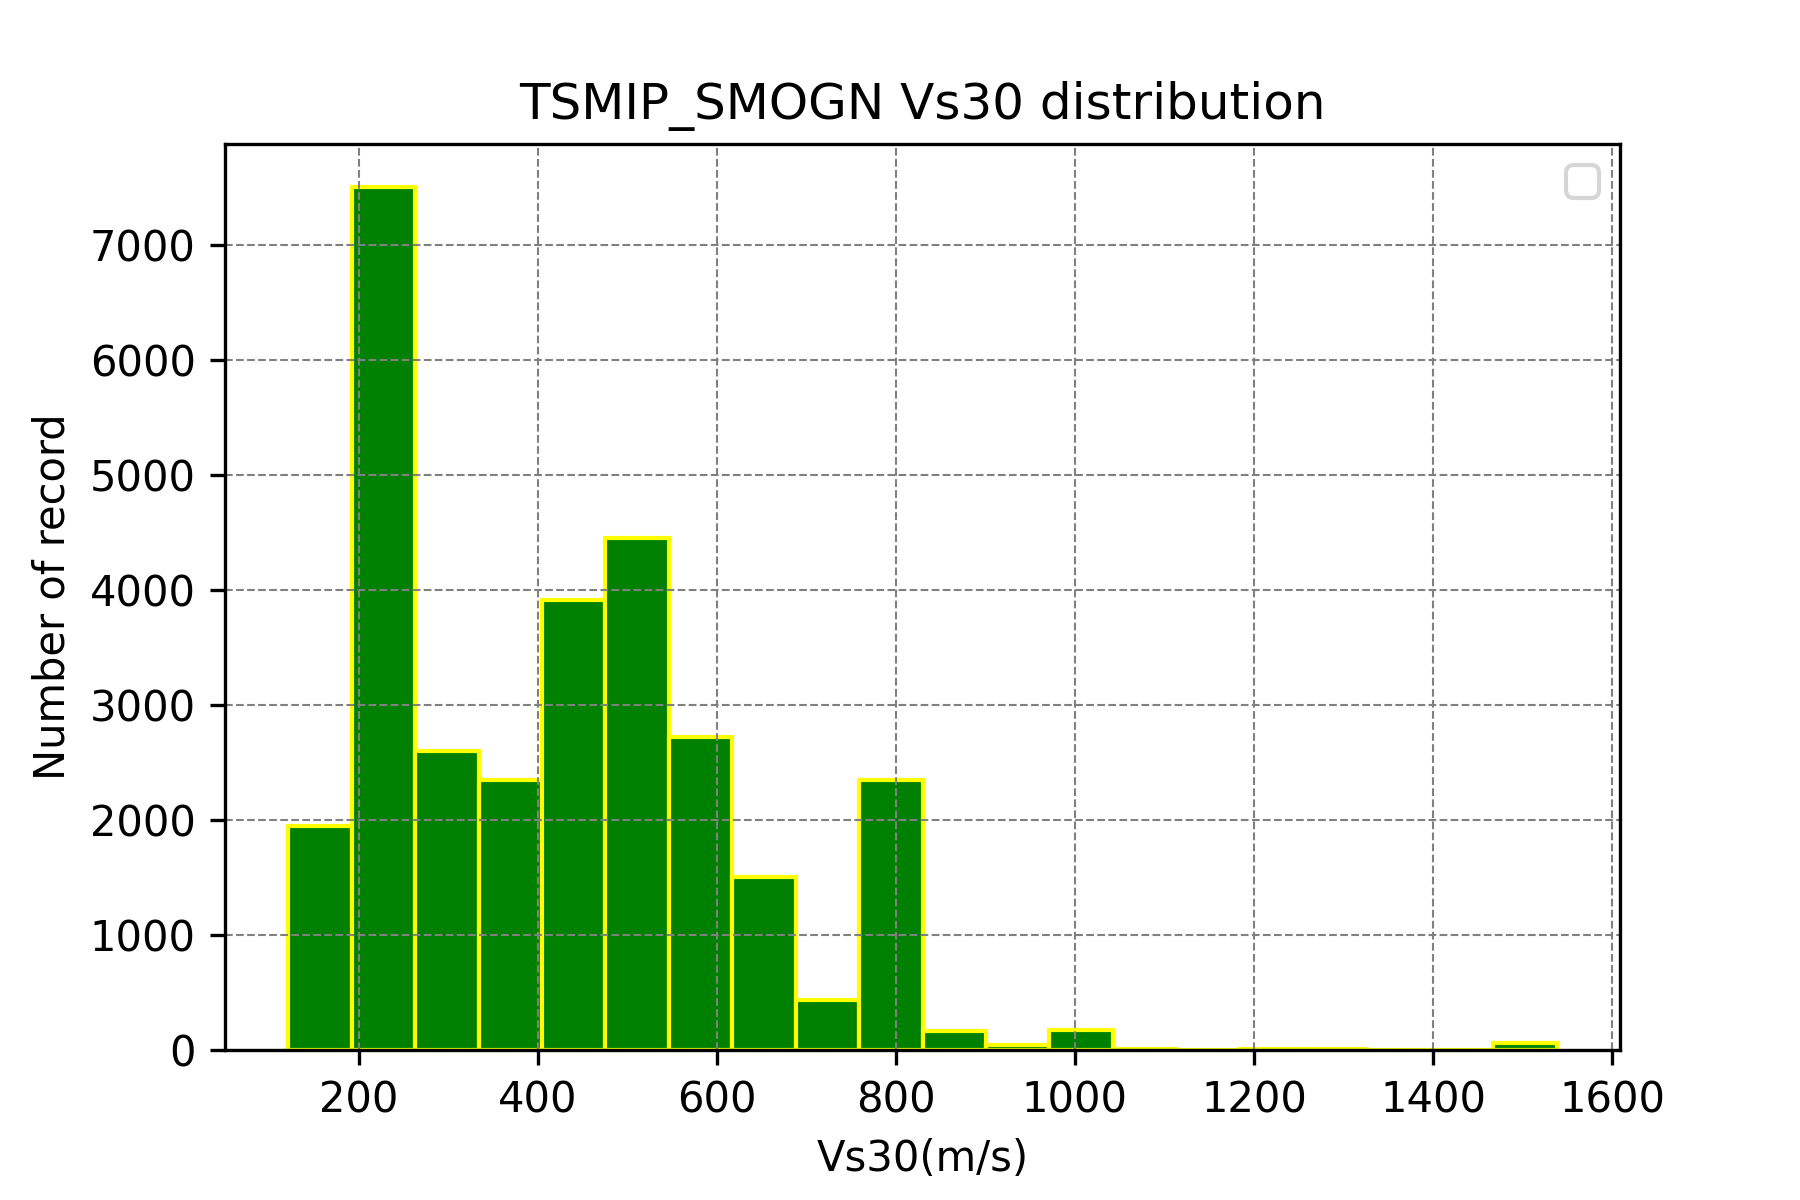
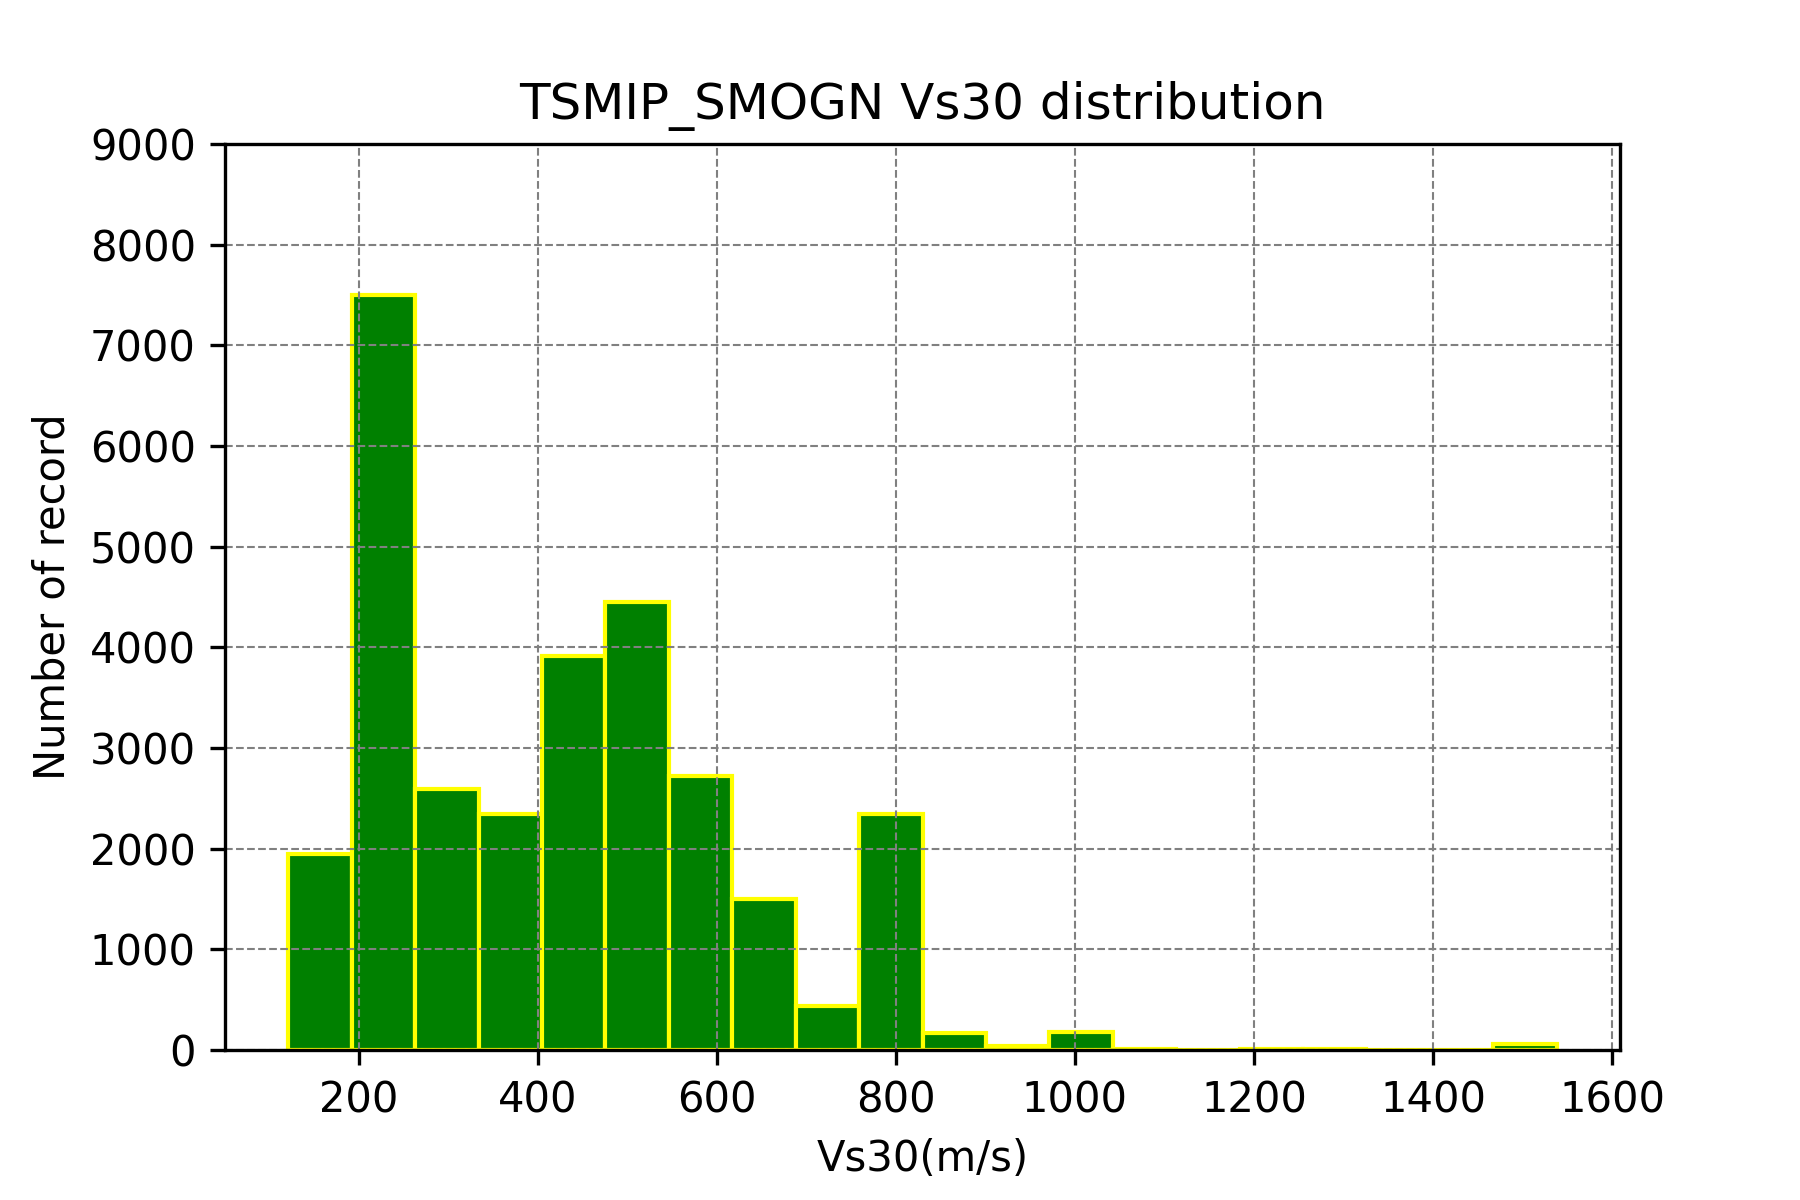
summarize SVR result tmp

diff --git a/machine_learning/SVR/SVR_TSMIP_smogn.py b/machine_learning/SVR/SVR_TSMIP_smogn.py
@@ -107,8 +107,9 @@ TSMIP_smogn_ori_df['lnPGA(gal)'] = np.log(TSMIP_smogn_ori_df['PGA'] * 980)
 x = TSMIP_df.loc[:, ['lnVs30', 'MW', 'lnRrup', 'fault.type']]
 y = TSMIP_df['lnPGA(gal)']
 
-# x = TSMIP_smogn_ori_df.loc[:,['lnVs30','MW','lnRrup']]
-# y = TSMIP_smogn_ori_df['lnPGA(gal)']
+x_smogn_ori = TSMIP_smogn_ori_df.loc[:,
+                                     ['lnVs30', 'MW', 'lnRrup', 'fault.type']]
+y_smogn_ori = TSMIP_smogn_ori_df['lnPGA(gal)']
 
 x_SMOGN = TSMIP_smogn_df.loc[:, ['lnVs30', 'MW', 'lnRrup', 'fault.type']]
 y_SMOGN = TSMIP_smogn_df['lnPGA(gal)']
@@ -132,7 +133,8 @@ print("初步得到的分數: ", score)
 scores = cross_val_score(svr_rbf, x, y, cv=6, scoring=two_scorer())
 print("CV後 R2 scores:", scores)
 
-# ################### Rrup Mw distribution ###########################
+# ################### SMOGN_data distribution ###########################
+# 1. Rrup Mw distribution
 
 # plt.grid(color='gray', linestyle = '--',linewidth=0.5)
 # plt.scatter(TSMIP_df['Rrup'], TSMIP_df['MW'], marker='o',facecolors='none',edgecolors='b', label= 'Data') #數據點
@@ -145,71 +147,97 @@ print("CV後 R2 scores:", scores)
 # plt.savefig(f'TSMIP_SMOGN Data distribution.png',dpi=300)
 # plt.show()
 
-# ################### Vs30 Number of ground motion ###########################
+# 2. Vs30 Number of ground motion distribution
 
 # plt.grid(color='gray', linestyle = '--',linewidth=0.5)
-# plt.hist(TSMIP_df['Vs30'], bins=20, edgecolor="yellow", color="green")
+# plt.hist(TSMIP_smogn_df['Vs30'], bins=20, edgecolor="yellow", color="green")
 # plt.xlabel('Vs30(m/s)')
 # plt.ylabel('Number of record')
+# plt.ylim(0,9000)
 # plt.title('TSMIP_SMOGN Vs30 distribution')
-# plt.legend()
-# plt.savefig(f'TSMIP_SMOGN Vs30 distribution.png',dpi=300)
+# plt.savefig('TSMIP_SMOGN Vs30 distribution.png',dpi=300)
 # plt.show()
 
-########################## 計算Vs30_residual #########################
-residual = svr_predict - y_test
-plt.grid(linestyle=':')
-plt.scatter(x_test[:,0], residual ,marker='o',facecolors='none',edgecolors='r', \
-    label='SVR (fit: %.3fs, accuracy: %.3f)' % (fit_time, score)) #迴歸線
-plt.xlabel('lnVs30(km)')
-plt.ylabel('Predict_PGA(g)')
-plt.title('Support Vector Regression')
-plt.legend()
-plt.savefig(f'Vs30-SVR_SMOGN_predict_residual.png', dpi=300)
+######################### residual #########################
+# 1. 計算Vs30_residual
+residual = (svr_predict - y_test) * 980
+plt.grid(linestyle=':', color='darkgrey')
+plt.scatter(np.exp(x_test[:, 0]),
+            residual,
+            marker='o',
+            facecolors='none',
+            edgecolors='r')  #迴歸線
+plt.xscale("log")
+plt.yscale("log")
+plt.xlim(1e2, 1e3)
+plt.ylim(1e-1, 1e4)
+plt.xlabel('Vs30(m/s)')
+plt.ylabel('Residual_PGA(cm/s^2)')
+plt.title('SVR Predict Residual R:accuracy: %.3f' % (score))
+plt.savefig(f'Vs30-SVR_predict_residual.png', dpi=300)
 plt.show()
 
-# # 計算Mw_residual
-plt.grid(linestyle=':')
-residual = svr_predict - y_test
-plt.scatter(x_test[:,1], residual ,marker='o',facecolors='none',edgecolors='r', \
-    label='SVR (fit: %.3fs, accuracy: %.3f)' % (fit_time, score)) #迴歸線
+# 2. 計算Mw_residual
+residual = (svr_predict - y_test) * 980
+plt.grid(linestyle=':', color='darkgrey')
+plt.scatter(x_test[:, 1],
+            residual,
+            marker='o',
+            facecolors='none',
+            edgecolors='r')  #迴歸線
+plt.xlim(3, 8)
+plt.ylim(1e-1, 1e4)
 plt.xlabel('Mw')
-plt.ylabel('Predict_PGA(g)')
-plt.title('Support Vector Regression')
-plt.legend()
-plt.savefig(f'Mw-SVR_SMOGN_predict_residual.png', dpi=300)
+plt.yscale("log")
+plt.ylabel('Residual_PGA(cm/s^2)')
+plt.title('SVR Predict Residual R:accuracy: %.3f' % (score))
+plt.savefig(f'Mw-SVR_predict_residual.png', dpi=300)
 plt.show()
 
-# # 計算Rrup_residual
-plt.grid(linestyle=':')
-residual = svr_predict - y_test
-plt.scatter(x_test[:,2], residual ,marker='o',facecolors='none',edgecolors='r', \
-    label='SVR (fit: %.3fs, accuracy: %.3f)' % (fit_time, score)) #迴歸線
-plt.xlabel('lnRrup(km)')
-plt.ylabel('Predict_PGA(g)')
-plt.title('Support Vector Regression')
-plt.legend()
-plt.savefig(f'Rrup-SVR_SMOGN_predict_residual.png', dpi=300)
+# 3. 計算Rrup_residual
+residual = (svr_predict - y_test) * 980
+plt.grid(linestyle=':', color='darkgrey')
+plt.scatter(np.exp(x_test[:, 2]),
+            residual,
+            marker='o',
+            facecolors='none',
+            edgecolors='r')  #迴歸線
+plt.xscale("log")
+plt.yscale("log")
+plt.xlim(1e0, 1e3)
+plt.ylim(1e-1, 1e4)
+plt.xlabel('Rrup(km)')
+plt.ylabel('Residual_PGA(cm/s^2)')
+plt.title('SVR Predict Residual R:accuracy: %.3f' % (score))
+plt.savefig(f'Rrup-SVR_predict_residual.png', dpi=300)
 plt.show()
 
-# 畫 Vs30 and svr_predict 關係圖
-plt.grid(linestyle=':')
-plt.scatter(x_test[:, 0],
+######################### 畫svr_predict 關係圖 #########################
+# 1. Vs30 and svr_predict 關係圖
+plt.grid(linestyle=':', color='darkgrey')
+plt.scatter(np.exp(x_test[:, 0]),
             y_test,
             marker='o',
             facecolors='none',
             edgecolors='b',
-            label='Data')  #數據點
-plt.scatter(x_test[:,0], svr_predict,marker='o',facecolors='none',edgecolors='r', \
-    label='SVR (fit: %.3fs, accuracy: %.3f)' % (fit_time, score)) #迴歸線
-plt.xlabel('lnVs30')
-plt.ylabel('svr_predict')
-plt.title('Support Vector Regression')
-plt.legend()
-plt.savefig(f'Vs30-SVR_SMOGN_predict.png', dpi=300)
+            label='True Value')  #數據點
+plt.scatter(np.exp(x_test[:, 0]),
+            svr_predict,
+            marker='o',
+            facecolors='none',
+            edgecolors='r',
+            label='Predict Value')  #迴歸線
+plt.xscale("log")
+plt.yscale("log")
+plt.xlim(1e2, 1e3)
+plt.ylim(1e-1, 1e4)
+plt.xlabel('Vs30(m/s)')
+plt.ylabel('PGA(cm/s^2)')
+plt.title('SVR Predict Distribution R:accuracy: %.3f' % (score))
+plt.savefig(f'Vs30-SVR_predict.png', dpi=300)
 plt.show()
 
-# plt Mw and svr_predict relationship
+# 2. Mw and svr_predict relationship
 plt.grid(linestyle=':')
 plt.scatter(x_test[:, 1],
             y_test,
@@ -226,7 +254,7 @@ plt.legend()
 plt.savefig(f'Mw-SVR_SMOGN_predict.png', dpi=300)
 plt.show()
 
-# plt Rrup and svr_predict relationship
+# 3. Rrup and svr_predict relationship
 plt.grid(linestyle=':')
 plt.scatter(x_test[:, 2],
             y_test,

diff --git a/machine_learning/SVR/SVR_TSMIP.py b/machine_learning/SVR/SVR_TSMIP.py
@@ -55,12 +55,13 @@ df['fault.type'] = df['fault.type'].str.replace("NM", "2")
 df['fault.type'] = df['fault.type'].str.replace("NO", "2")
 df['fault.type'] = df['fault.type'].str.replace("SS", "3")
 df['fault.type'] = pd.to_numeric(df['fault.type'])
+df['lnPGA(gal)'] = np.log(df['PGA'] * 980)
 
 # 對資料標準化
 # df['PGA'] = (df['PGA'] - df['PGA'].mean()) / df['PGA'].std()
 
-x = df.loc[:, ['lnVs30', 'MW', 'lnRrup']]
-y = df['PGA']
+x = df.loc[:, ['lnVs30', 'MW', 'lnRrup',"fault.type"]]
+y = df['lnPGA(gal)']
 
 x_train, x_test, y_train, y_test = train_test_split(x.values,
                                                     y.values,
@@ -77,7 +78,7 @@ x_train, x_test, y_train, y_test = train_test_split(x.values,
 # epsilon = 3* 0.18 * (np.log(29896)/29896)**(1/2)
 
 # # 用paper方法當SVR參數，效果顯著
-svr_rbf = SVR(C=0.46, kernel='rbf', epsilon=0.0008)
+svr_rbf = SVR(C=1.99, kernel='rbf', epsilon=0.001)
 t0 = time.time()
 grid_result = svr_rbf.fit(x_train, y_train)
 fit_time = time.time() - t0

diff --git a/machine_learning/SVR/optuna_SVR_TSMIP.py b/machine_learning/SVR/optuna_SVR_TSMIP.py
@@ -70,8 +70,8 @@ def objective(trial):
 #SVR_TSMIP_4 新增SMOGN資料
 #SVR_TSMIP_5 SMOGN資料當訓練集 原本資料切20%當測試集
 #SVR_TSMIP_6 從頭來過，把y改成ln(PGA)，找TSMIP的最佳解 -> C=1.99 epsilon=0.001
-#SVR_TSMIP_7 y改成ln(PGA)，SMOGN資料當訓練集 原本資料切20%當測試集，並新增fault.type參數
-study_name = 'SVR_TSMIP_7'
+#SVR_TSMIP_7 y改成ln(PGA)，SMOGN資料當訓練集 原本資料切20%當測試集，並新增fault.type參數 -> 成效反而比較差
+study_name = 'SVR_TSMIP_6'
 study = optuna.create_study(study_name=study_name,
                             storage="mysql://root@localhost/SVR_TSMIP",
                             direction="maximize")  # Create a new study.

diff --git a/machine_learning/SVR/RFR_TSMIP.py b/machine_learning/SVR/RFR_TSMIP.py
@@ -85,7 +85,7 @@ randomForestModel = RandomForestRegressor(n_estimators=100,
                                           criterion='squared_error',
                                           n_jobs=-1)
 t0 = time.time()
-grid_result = randomForestModel.fit(x_SMOGN, y_SMOGN)
+grid_result = randomForestModel.fit(x_train, y_train)
 fit_time = time.time() - t0
 randomForest_predict = randomForestModel.predict(x_test)
 # 評估，打分數
